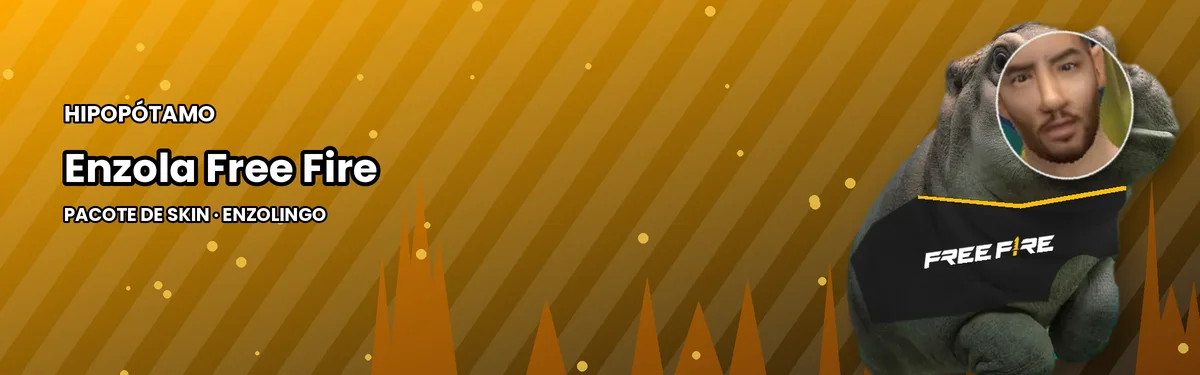
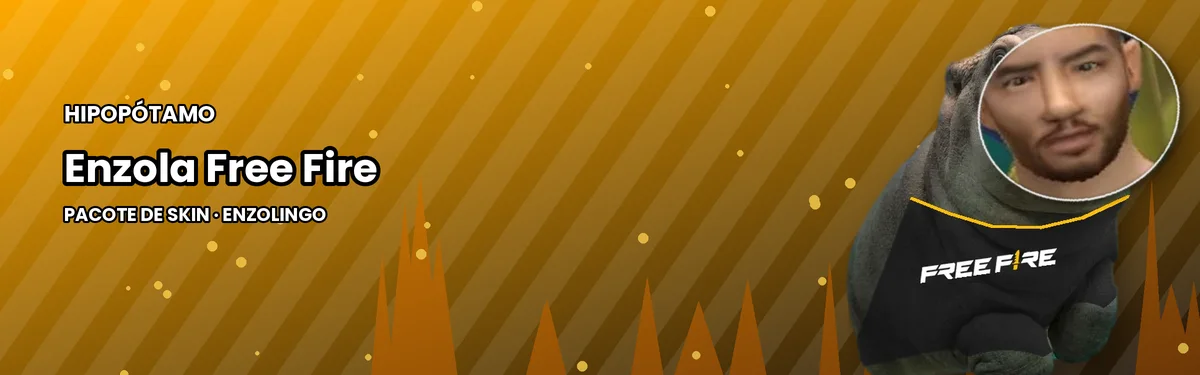
Skin Free Fire: roupa ajustada ao corpo e mascara maior cobrindo a boca
Claude-Session: https://claude.ai/code/session_01LkoixJGtWMpdtiG3Wug6MQ

Changed region(s): [[0.7092, 0.0587, 0.9867, 0.968], [0.7092, 0.9387, 0.74, 0.968]]

diff --git a/sw.js b/sw.js
@@ -1,6 +1,6 @@
 /* Jogos Enzola — service worker: abre rápido, funciona com internet ruim e recebe notificações no celular.
    Só guarda os arquivos do próprio site; dados do Supabase e preços sempre vêm da rede. */
-const CACHE = "jogos-enzola-v3-23";
+const CACHE = "jogos-enzola-v3-24";
 const SHELL = ["./", "index.html", "styles.css", "app.js", "jogo.js", "social.js", "lingo.js", "loja.js","show.js","home.js", "extras.js", "config.js", "logo.png", "hipopotamo.webp", "manifest.webmanifest",
   "icons/icon-192.png", "icons/icon-512.png", "icons/favicon.png", "icons/notif.png", "icons/badge.png"];
 self.addEventListener("install", e => { e.waitUntil(caches.open(CACHE).then(c => c.addAll(SHELL)).then(() => self.skipWaiting())) });
